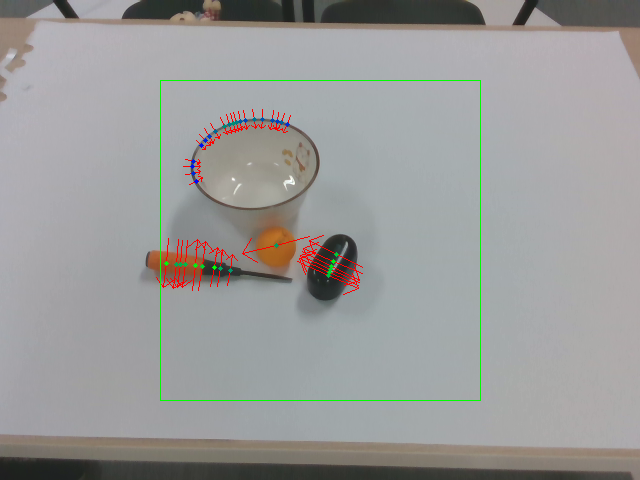
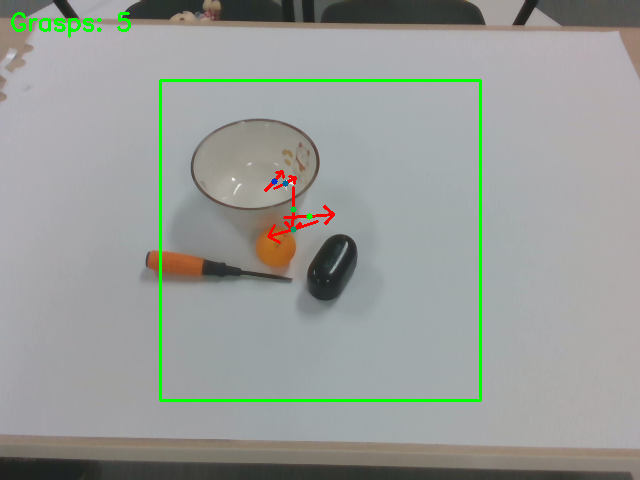
Title: Add inference demo for grasp detection with visualization
Key features implemented:
- New .gitignore rule to exclude demo/output/ directory
- New inference_demo.py file implementing grasp detection inference and visualization functionality
- Includes functions for drawing grasp detections (arrows and regions) with color gradients
- Implements SimpleGraspDetector class for preprocessing and simulated inference
- Adds command-line interface for running inference on input images with configurable parameters
- Supports both simulated and real model inference modes with device selection
- Generates visual output with grasp annotations and displays detection statistics

The demo provides a complete workflow for running grasp detection inference on images, including preprocessing, simulated inference, post-processing, and result visualization with annotated output images showing detected grasps as colored arrows.

diff --git a/inference_demo.py b/inference_demo.py
@@ -1,0 +1,281 @@
+# -*- coding: utf-8 -*-
+"""
+简易推理 Demo - 抓取检测可视化
+此 demo 用于演示如何使用 AFFGA 模型进行抓取检测推理
+"""
+
+import cv2
+import os
+import torch
+import math
+import numpy as np
+from skimage.feature import peak_local_max
+
+
+def calcAngle2(angle):
+    """
+    根据给定的 angle 计算与之反向的 angle
+    :param angle: 弧度
+    :return: 弧度
+    """
+    return angle + math.pi - int((angle + math.pi) // (2 * math.pi)) * 2 * math.pi
+
+
+def drawGrasps(img, grasps, mode='arrow'):
+    """
+    绘制 grasp
+    :param img: 图像
+    :param grasps: list() 元素是 [row, col, angle, width]
+    :param mode: arrow / region
+    :return: 绘制后的图像
+    """
+    assert mode in ['arrow', 'region']
+    
+    num = len(grasps)
+    if num == 0:
+        return img
+    
+    for i, grasp in enumerate(grasps):
+        row, col, angle, width = grasp
+        
+        if mode == 'arrow':
+            width = min(width / 2, 50)  # 限制宽度显示
+            angle2 = calcAngle2(angle)
+            k = math.tan(angle)
+            
+            if abs(k) < 1e-6:
+                dx = width
+                dy = 0
+            else:
+                dx = k / abs(k) * width / pow(k ** 2 + 1, 0.5)
+                dy = k * dx
+            
+            # 颜色渐变
+            color_b = int(255 / max(num, 1) * i)
+            color_r = 0
+            color_g = int(-255 / max(num, 1) * i + 255)
+            
+            if angle < math.pi:
+                cv2.arrowedLine(img, (col, row), (int(col + dx), int(row - dy)), 
+                              (0, 0, 255), 2, 8, 0, 0.5)
+            else:
+                cv2.arrowedLine(img, (col, row), (int(col - dx), int(row + dy)), 
+                              (0, 0, 255), 2, 8, 0, 0.5)
+            
+            if angle2 < math.pi:
+                cv2.line(img, (col, row), (int(col + dx), int(row - dy)), 
+                        (0, 0, 255), 2)
+            else:
+                cv2.line(img, (col, row), (int(col - dx), int(row + dy)), 
+                        (0, 0, 255), 2)
+            
+            cv2.circle(img, (col, row), 3, (color_b, color_g, color_r), -1)
+        
+        else:
+            color_b = int(255 / max(num, 1) * i)
+            color_r = 0
+            color_g = int(-255 / max(num, 1) * i + 255)
+            if 0 <= row < img.shape[0] and 0 <= col < img.shape[1]:
+                img[row, col] = [color_b, color_g, color_r]
+    
+    return img
+
+
+def drawRect(img, rect, color=(0, 255, 0), thickness=2):
+    """
+    绘制矩形
+    :param img: 图像
+    :param rect: [x1, y1, x2, y2]
+    :param color: BGR 颜色
+    :param thickness: 线宽
+    """
+    cv2.rectangle(img, (rect[0], rect[1]), (rect[2], rect[3]), color, thickness)
+    return img
+
+
+class SimpleGraspDetector:
+    """
+    简易抓取检测器（模拟推理）
+    用于演示，实际使用时请替换为真实模型
+    """
+    
+    def __init__(self, device='cpu'):
+        self.device = device
+        self.input_size = 320
+        self.angle_cls = 120
+        print(f'>> 初始化抓取检测器，设备：{device}')
+    
+    def preprocess(self, img):
+        """
+        预处理：裁剪中间 320x320 区域并归一化
+        """
+        h, w = img.shape[:2]
+        assert h >= self.input_size and w >= self.input_size, \
+            f'输入图像必须大于等于 ({self.input_size}, {self.input_size})'
+        
+        crop_x1 = int((w - self.input_size) / 2)
+        crop_y1 = int((h - self.input_size) / 2)
+        crop_x2 = crop_x1 + self.input_size
+        crop_y2 = crop_y1 + self.input_size
+        
+        crop_img = img[crop_y1:crop_y2, crop_x1:crop_x2, :]
+        
+        # 归一化
+        rgb = crop_img.astype(np.float32) / 255.0
+        rgb -= rgb.mean()
+        
+        # 转换为 tensor (1, 3, 320, 320)
+        rgb = rgb.transpose((2, 0, 1))
+        rgb_tensor = torch.from_numpy(np.expand_dims(rgb, 0).astype(np.float32))
+        
+        return rgb_tensor, crop_x1, crop_y1
+    
+    def predict(self, img, thresh=0.5, peak_dist=10):
+        """
+        预测抓取点
+        :param img: 输入图像 np.array (h, w, 3)
+        :param thresh: 置信度阈值
+        :param peak_dist: 峰值最小距离
+        :return: pred_grasps, crop_x1, crop_y1
+        """
+        # 预处理
+        input_tensor, crop_x1, crop_y1 = self.preprocess(img)
+        input_tensor = input_tensor.to(self.device)
+        
+        # === 模拟推理结果 ===
+        # 实际使用时，这里应该加载真实模型并进行前向传播
+        # able_out, angle_out, width_out = model(input_tensor)
+        
+        # 这里生成一些模拟的抓取点用于演示
+        np.random.seed(42)
+        able_pred = np.random.rand(self.input_size, self.input_size) * 0.3
+        able_pred[100:150, 100:150] = 0.7 + np.random.rand(50, 50) * 0.3
+        able_pred[200:250, 200:250] = 0.6 + np.random.rand(50, 50) * 0.4
+        
+        angle_pred = np.random.rand(self.input_size, self.input_size) * self.angle_cls
+        width_pred = np.random.rand(self.input_size, self.input_size) * 50 + 20
+        
+        # 后处理 - 提取峰值点
+        pred_pts = peak_local_max(able_pred, min_distance=peak_dist, threshold_abs=thresh)
+        
+        # 构建抓取列表
+        pred_grasps = []
+        for idx in range(pred_pts.shape[0]):
+            row, col = pred_pts[idx]
+            angle = angle_pred[row, col] / self.angle_cls * 2 * np.pi
+            width = width_pred[row, col]
+            
+            # 转换到原图坐标
+            row += crop_y1
+            col += crop_x1
+            
+            pred_grasps.append([row, col, angle, width])
+        
+        # 按置信度排序
+        pred_grasps.sort(key=lambda x: able_pred[int(x[0]-crop_y1), int(x[1]-crop_x1)], reverse=True)
+        
+        # 只保留前 5 个
+        pred_grasps = pred_grasps[:5]
+        
+        return pred_grasps, crop_x1, crop_y1
+
+
+def run_demo(input_path, output_path, use_real_model=False, model_path=None):
+    """
+    运行推理 demo
+    :param input_path: 输入图像文件夹
+    :param output_path: 输出结果文件夹
+    :param use_real_model: 是否使用真实模型
+    :param model_path: 模型路径（如果使用真实模型）
+    """
+    # 检查设备
+    device_name = "cuda:0" if torch.cuda.is_available() else "cpu"
+    device = torch.device(device_name)
+    print(f'>> 使用设备：{device_name}')
+    
+    # 初始化检测器
+    if use_real_model and model_path:
+        # TODO: 加载真实模型
+        from utils.affga import AFFGA
+        detector = AFFGA(model_path, device=device_name)
+        predict_func = lambda img: detector.predict(img, device, mode='peak', thresh=0.5, peak_dist=2)
+        print(f'>> 已加载真实模型：{model_path}')
+    else:
+        detector = SimpleGraspDetector(device=device_name)
+        predict_func = lambda img: detector.predict(img, thresh=0.5, peak_dist=10)
+        print('>> 使用模拟检测器（演示模式）')
+    
+    # 创建输出目录
+    os.makedirs(output_path, exist_ok=True)
+    
+    # 处理所有图像
+    image_files = [f for f in os.listdir(input_path) if f.endswith(('.png', '.jpg', '.jpeg'))]
+    
+    if not image_files:
+        print(f'警告：在 {input_path} 中未找到图像文件')
+        return
+    
+    print(f'\n找到 {len(image_files)} 张图像，开始处理...\n')
+    
+    for file in image_files:
+        print(f'processing {file}...')
+        
+        img_file = os.path.join(input_path, file)
+        img = cv2.imread(img_file)
+        
+        if img is None:
+            print(f'  无法读取图像：{img_file}')
+            continue
+        
+        # 预测
+        grasps, x1, y1 = predict_func(img)
+        
+        # 绘制结果
+        im_rest = drawGrasps(img.copy(), grasps, mode='arrow')
+        
+        # 绘制裁剪区域
+        rect = [x1, y1, x1 + 320, y1 + 320]
+        im_rest = drawRect(im_rest, rect, color=(0, 255, 0), thickness=2)
+        
+        # 添加文字信息
+        info_text = f'Grasps: {len(grasps)}'
+        cv2.putText(im_rest, info_text, (10, 30), 
+                   cv2.FONT_HERSHEY_SIMPLEX, 0.8, (0, 255, 0), 2)
+        
+        # 保存结果
+        save_file = os.path.join(output_path, file)
+        cv2.imwrite(save_file, im_rest)
+        print(f'  检测到 {len(grasps)} 个抓取点 -> 保存到 {save_file}')
+    
+    print('\n完成！')
+    
+    # 如果有 fps 方法，打印 FPS
+    if hasattr(detector, 'fps'):
+        print(f'FPS: {detector.fps():.2f}')
+
+
+if __name__ == '__main__':
+    import argparse
+    
+    parser = argparse.ArgumentParser(description='抓取检测推理 Demo')
+    parser.add_argument('--input', type=str, default='demo/input', 
+                       help='输入图像文件夹')
+    parser.add_argument('--output', type=str, default='demo/output', 
+                       help='输出结果文件夹')
+    parser.add_argument('--model', type=str, default=None, 
+                       help='预训练模型路径（可选，不提供则使用模拟检测器）')
+    parser.add_argument('--use_real', action='store_true', 
+                       help='使用真实模型进行推理')
+    
+    args = parser.parse_args()
+    
+    print('=' * 60)
+    print('抓取检测推理 Demo')
+    print('=' * 60)
+    
+    run_demo(
+        input_path=args.input,
+        output_path=args.output,
+        use_real_model=args.use_real,
+        model_path=args.model
+    )
